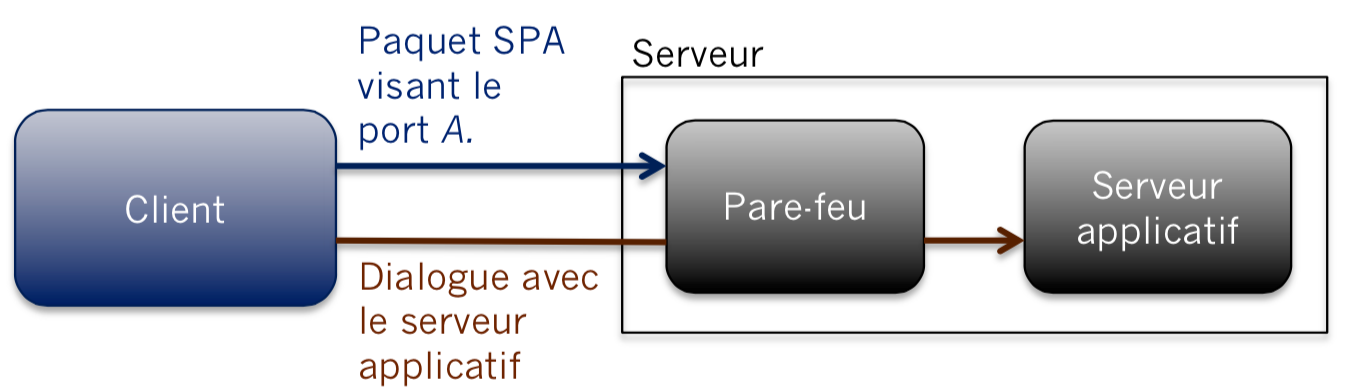
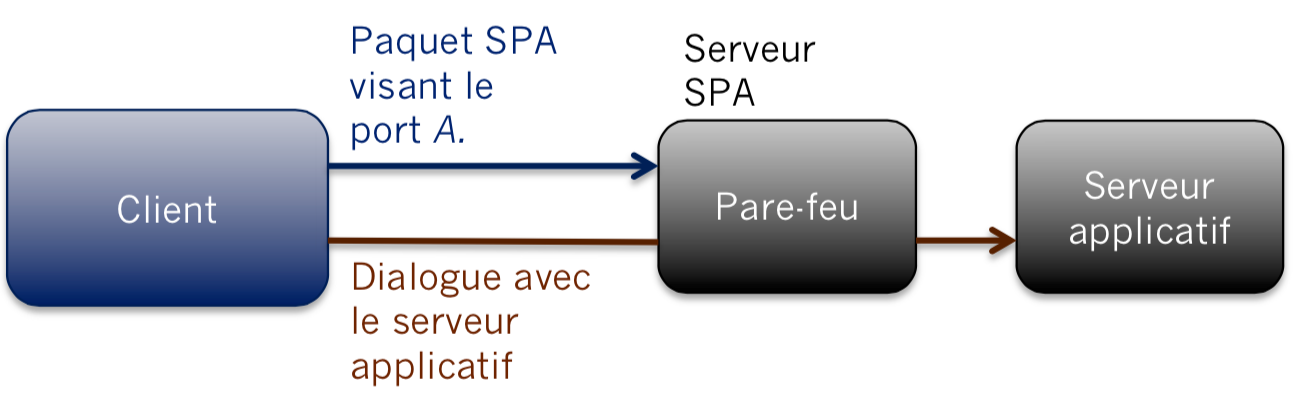
continuing hash part

diff --git a/reports/authenticite.tex b/reports/authenticite.tex
@@ -1,11 +1,12 @@
 \chapter{Authenticité et Intégrité}
+Après avoir présenté le procédé, nous allons détailler davantage les outils utilisés pour le satisfaire.
 
-Pour palier à la faiblesse du Port Knocking, et afin qu'une simple écoute du réseau ne suffise pas à mettre en péril ce schéma, la pérénnité de cette méthode va reposer sur l'authentification des clients. En effet il est nécessaire de vérifier que l'acceptation d'un paquet par le pare-feu est bien effectuée par un client légitime.
+Pour palier à la faiblesse du \emph{Port Knocking}, et afin qu'une simple écoute du réseau ne suffise pas à mettre en péril ce schéma, la pérénnité de cette méthode va reposer sur l'authentification des clients. En effet il est nécessaire de vérifier que l'acceptation d'un paquet par le pare-feu est bien effectuée par un client légitime.
 
-A contrario du port knocking qui supposait que seul un client autorisé pouvait connaître la séquence de coups, ici l'authenticité va se faire grâce à des clés prépartagées. En effet, le serveur va partager une clé avec chacun des ses clients, chaque clé étant différente des autres. 
-Le client génère alors un paquet SPA chiffré avec cette clé, le pare-feu le déchiffre avec la même clé et détermine la légitimité de la requête.
+A contrario du \emph{Port Knocking} qui supposait que seul un client autorisé pouvait connaître la séquence de coups, ici l'authenticité va se faire grâce à des clés prépartagées. En effet, le serveur va partager une clé avec chacun des ses clients, chaque clé étant différente des autres. 
+Le client génère alors un paquet SPA chiffré avec cette clé, le serveur SPA le déchiffre avec la même clé. Il détermine la légitimité de la requête et si les champs sont valides, l'intégrité grâce au système de hachage
 
-Si c'est le cas, le client sera aussi considéré comme authentifié auprès du serveur et il pourra communiquer avec lui sur le port fourni.
+Si la demande est valide, le client sera considéré comme authentifié auprès du serveur et il pourra communiquer avec lui sur le port fourni.
 
 \section{Chiffrement}
 Pour le chiffrement, nous utiliserons le standard du chiffrement symétrique, AES. 
@@ -21,18 +22,20 @@ Nous désirons que le client puisse choisir le port serveur avec lequel il veut 
 
 \section{Champ \textbf{\emph{IP}} du paylaod}
 
-De plus, afin de s'assurer de l'authenticité de l'émetteur du paquet, celui-ci doit introduire son adresse IP dans le payload chiffré qui sera envoyé. Ainsi, en comparant cette donnée et le header du paquet ip, il sera possible de voir si les informations sont cohérentes et donc authentiques (un attaquant n'étant pas en mesure de fournir un chiffré de paylaod valide sans la clé adéquate). 
+De plus, afin de s'assurer de l'authenticité de l'émetteur du paquet, celui-ci doit introduire son adresse IP dans le champ de données chiffré. Ainsi, en comparant cette donnée et le header du paquet ip, il sera possible de voir si les informations sont cohérentes et donc authentiques (un attaquant n'étant pas en mesure de fournir un chiffré valide sans la clé adéquate). 
 De plus,cette comparaison d'adresse nous permet de déterminer l'intégrité du message envoyé.
 En effet, un utilisateur légitime construit naturellement un paquet avec ces deux champs IP identiques. Un usurpateur pourra alors être démasqué si sa requête ne respecte pas cela.
 
-\section{\emph{\textbf{O}ne \textbf{T}ime \textbf{P}assword}}
-En sachant que la structure des messages est connue et que leur contenu peut l'être aussi (on ne prétend pas ici garder ces informations secrètes mais seulement authentiques), il semble nécessaire de changer régulièrement de mot de passe pour que celui-ci ne soit pas affaibli par une attaque a clair connu, par exemple.
+\section{Hachage}
 
-Nous utiliserons donc le mécanisme des OTP pour pallier à ce problème. En effet, le client aura une graine à partir de laquelle générer des clés à usage unique. De son côté le serveur aura une graine par client qu'il fera évoluer de la même façon que le client.
-\\
-Pour cela, plusieurs types d'OTP existent :
-\begin{itemize}
-\item Ceux basés sur \textbf{le temps}. Le client et le serveur doivent pour cela être synchronisé afin de déterminer simultanément la clé à utiliser.  
-\item Ceux basés sur \textbf{des algorithmes mathématiques} qui créeront le nouveau mot de passe à partir du précédent ou d'un challenge.
-\end{itemize}
-Dans le cadre du SPA, il fallait qu'il n'y ait pas d'autre dialogue entre le client et pare-feu que celui déjà connu, ainsi nous avons choisi d'utiliser les HOTP. Le client et le serveur partagent une graine et un compteur, le mot de passe courant sera le résultat du hmac entre ces deux valeurs. A chaque nouveau paquet, le compteur évoluera.
+%\section{\emph{\textbf{O}ne \textbf{T}ime \textbf{P}assword}}
+%En sachant que la structure des messages est connue et que leur contenu peut l'être aussi (on ne prétend pas ici garder ces informations secrètes mais seulement authentiques), il semble nécessaire de changer régulièrement de mot de passe pour que celui-ci ne soit pas affaibli par une attaque a clair connu, par exemple.
+
+%Nous utiliserons donc le mécanisme des OTP pour pallier à ce problème. En effet, le client aura une graine à partir de laquelle générer des clés à usage unique. De son côté le serveur aura une graine par client qu'il fera évoluer de la même façon que le client.
+%\\
+%Pour cela, plusieurs types d'OTP existent :
+%\begin{itemize}
+%\item Ceux basés sur \textbf{le temps}. Le client et le serveur doivent pour cela être synchronisé afin de déterminer simultanément la clé à utiliser.  
+%\item Ceux basés sur \textbf{des algorithmes mathématiques} qui créeront le nouveau mot de passe à partir du précédent ou d'un challenge.
+%\end{itemize}
+%Dans le cadre du SPA, il fallait qu'il n'y ait pas d'autre dialogue entre le client et pare-feu que celui déjà connu, ainsi nous avons choisi d'utiliser les HOTP. Le client et le serveur partagent une graine et un compteur, le mot de passe courant sera le résultat du hmac entre ces deux valeurs. A chaque nouveau paquet, le compteur évoluera.

diff --git a/reports/introspa.tex b/reports/introspa.tex
@@ -1,17 +1,30 @@
-Dans le cadre de notre étude du SPA, nous avons programmé un couple client serveur pour répondre aux exigences demandées par l'ouverture de ports dynamique.
+Dans le cadre de notre étude du SPA, nous nous sommes consacrés à la structure du paquet SPA à envoyer afin qu'il répondent aux exigences du procédé. 
+Nous souhaitons, en effet, que notre serveur SPA puisse authentifier les demandes, vérifier leurs intégrités et ne sois pas sensible aux attaques de type \emph{rejeu} et \emph{DoS}. 
+Le schéma suivant satisferait ces exigences :
 
-Nous allons vous présenter les différentes étapes que nous avons traversées pour rendre le programme robuste, c'est à dire afin que seul un client légitime puisse demander l'accès à un port donné pour un court laps de temps.
-
-Ci-dessous un schéma de la topologie réseau mise en place.
 \begin{figure}[h]
 
-\centerline{\includegraphics[scale=0.6]{topoSPA}}
+\centerline{\includegraphics[scale=0.5]{paquet_spa}}
+\caption{Schéma du champ de données d'un paquet SPA}
 
 \end{figure}
 
-4 machines sont présentes, le client SPA, le serveur SPA, un attaquant en man-in-the-middle et le serveur applicatif avec lequel le client veut discuter.
+\newpage
 
-L'attaquant qui voit l'intégralité de la communication entre le client et le serveur (qui est unilatérale) doit être incapable d'utiliser ces informations à son avantage.
-Pour cela, il est nécessaire de préserver l'intégrité et l'authenticité des données transmises au serveur SPA. 
-En effet, l'attaquant ne doit pas pouvoir se faire passer pour le client sinon il aura la capacité de rendre le pare-feu plus \emph{fragile} en permettant le passage de paquets \emph{illicites} à destination du serveur.
-De plus, l'intégrité des données doit aussi être préservée puisqu'il ne faut pas qu'un attaquant puisse modifier les spécifications du client, il pourrait sinon changer le numéro de port ou le protocole de transport autorisé par le pare-feu par exemple. 
+%Nous avons ensuite programmé un couple client serveur qui répondent aux exigences demandées 
+
+%Nous allons vous présenter les différentes étapes que nous avons traversées pour rendre le programme robuste, c'est à dire afin que seul un client légitime puisse demander l'accès à un port donné pour un court laps de temps.
+
+%Ci-dessous un schéma de la topologie réseau mise en place.
+%\begin{figure}[h]
+
+%\centerline{\includegraphics[scale=0.6]{topoSPA}}
+
+%\end{figure}
+
+%4 machines sont présentes, le client SPA, le serveur SPA, un attaquant en man-in-the-middle et le serveur applicatif avec lequel le client veut discuter.
+
+%L'attaquant qui voit l'intégralité de la communication entre le client et le serveur (qui est unilatérale) doit être incapable d'utiliser ces informations à son avantage.
+%Pour cela, il est nécessaire de préserver l'intégrité et l'authenticité des données transmises au serveur SPA. 
+%En effet, l'attaquant ne doit pas pouvoir se faire passer pour le client sinon il aura la capacité de rendre le pare-feu plus \emph{fragile} en permettant le passage de paquets \emph{illicites} à destination du serveur.
+%De plus, l'intégrité des données doit aussi être préservée puisqu'il ne faut pas qu'un attaquant puisse modifier les spécifications du client, il pourrait sinon changer le numéro de port ou le protocole de transport autorisé par le pare-feu par exemple. 
